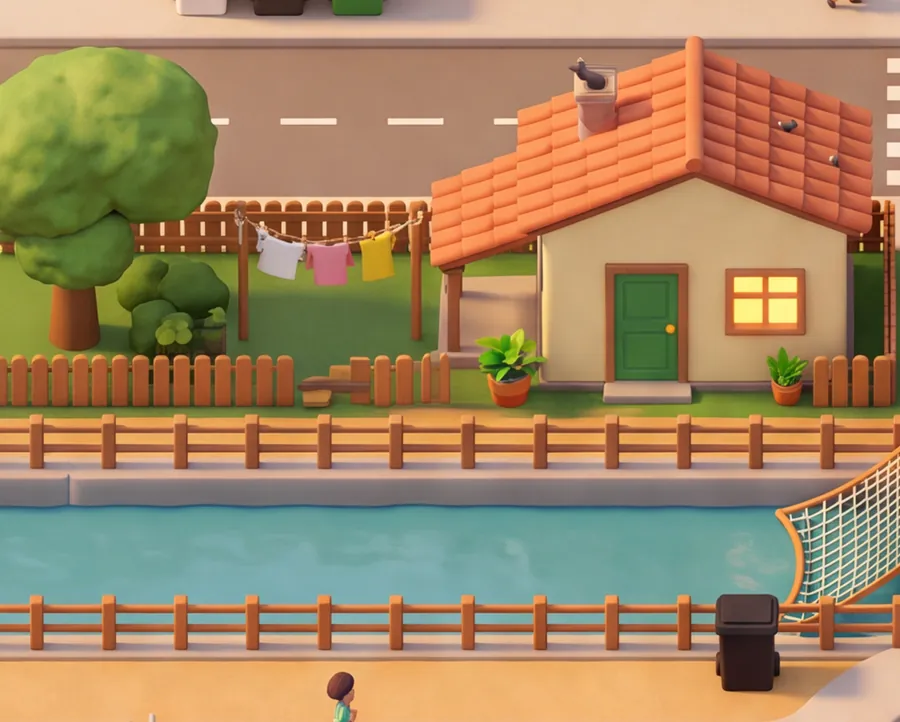
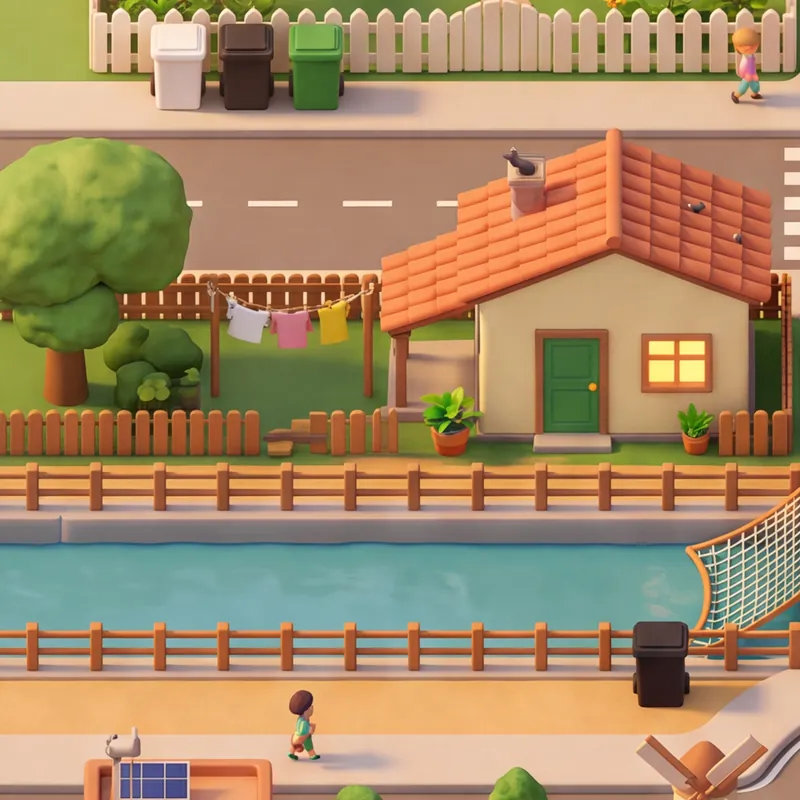
chispa 2.4.2: vistas de zona centradas
- Recortes cuadrados centrados en el lugar principal de cada zona, con márgenes iguales a cada lado.
- La vista se centra igual en el álbum y en la pantalla de zona.

diff --git a/css/chispa.css b/css/chispa.css
@@ -238,7 +238,7 @@ p { margin: 0; text-wrap: pretty; }
 .zona-heroe .zona-fondo { position: absolute; inset: 0; width: 100%; height: 100%; object-fit: cover; object-position: center 30%; }
 .zona-heroe .zona-quien { position: absolute; bottom: -6%; left: 50%; transform: translateX(-50%); width: 42%; }
 .zona-heroe .respaldo-persona { width: 30%; }
-.zona-heroe .vista { object-position: center 45%; }
+.zona-heroe .vista, .seccion-arte .vista, .album-banda .vista { object-position: center; }
 /* Sobre la vista del barrio, el personaje se para a un lado para dejar ver su lugar. */
 .zona-heroe:has(.vista) .zona-quien { left: auto; right: 2%; transform: none; width: 36%; bottom: -4%; filter: drop-shadow(0 6px 10px rgba(43, 33, 29, .35)); }
 .zona-p > .t-nota { margin-top: calc(var(--e2) * -1); }

diff --git a/sw.js b/sw.js
@@ -1,6 +1,6 @@
 /* chispa · service worker: guarda la app y sus ilustraciones para que abra sin internet. No envía nada a ningún lado. */
 'use strict';
-const VERSION = 'chispa-v2.4.1';
+const VERSION = 'chispa-v2.4.2';
 const VOZ = 'chispa-voz-1';
 importScripts('js/imagenes.js', 'js/audios.js');
 const NUCLEO = ['./', './index.html', './manifest.webmanifest', './css/chispa.css',
